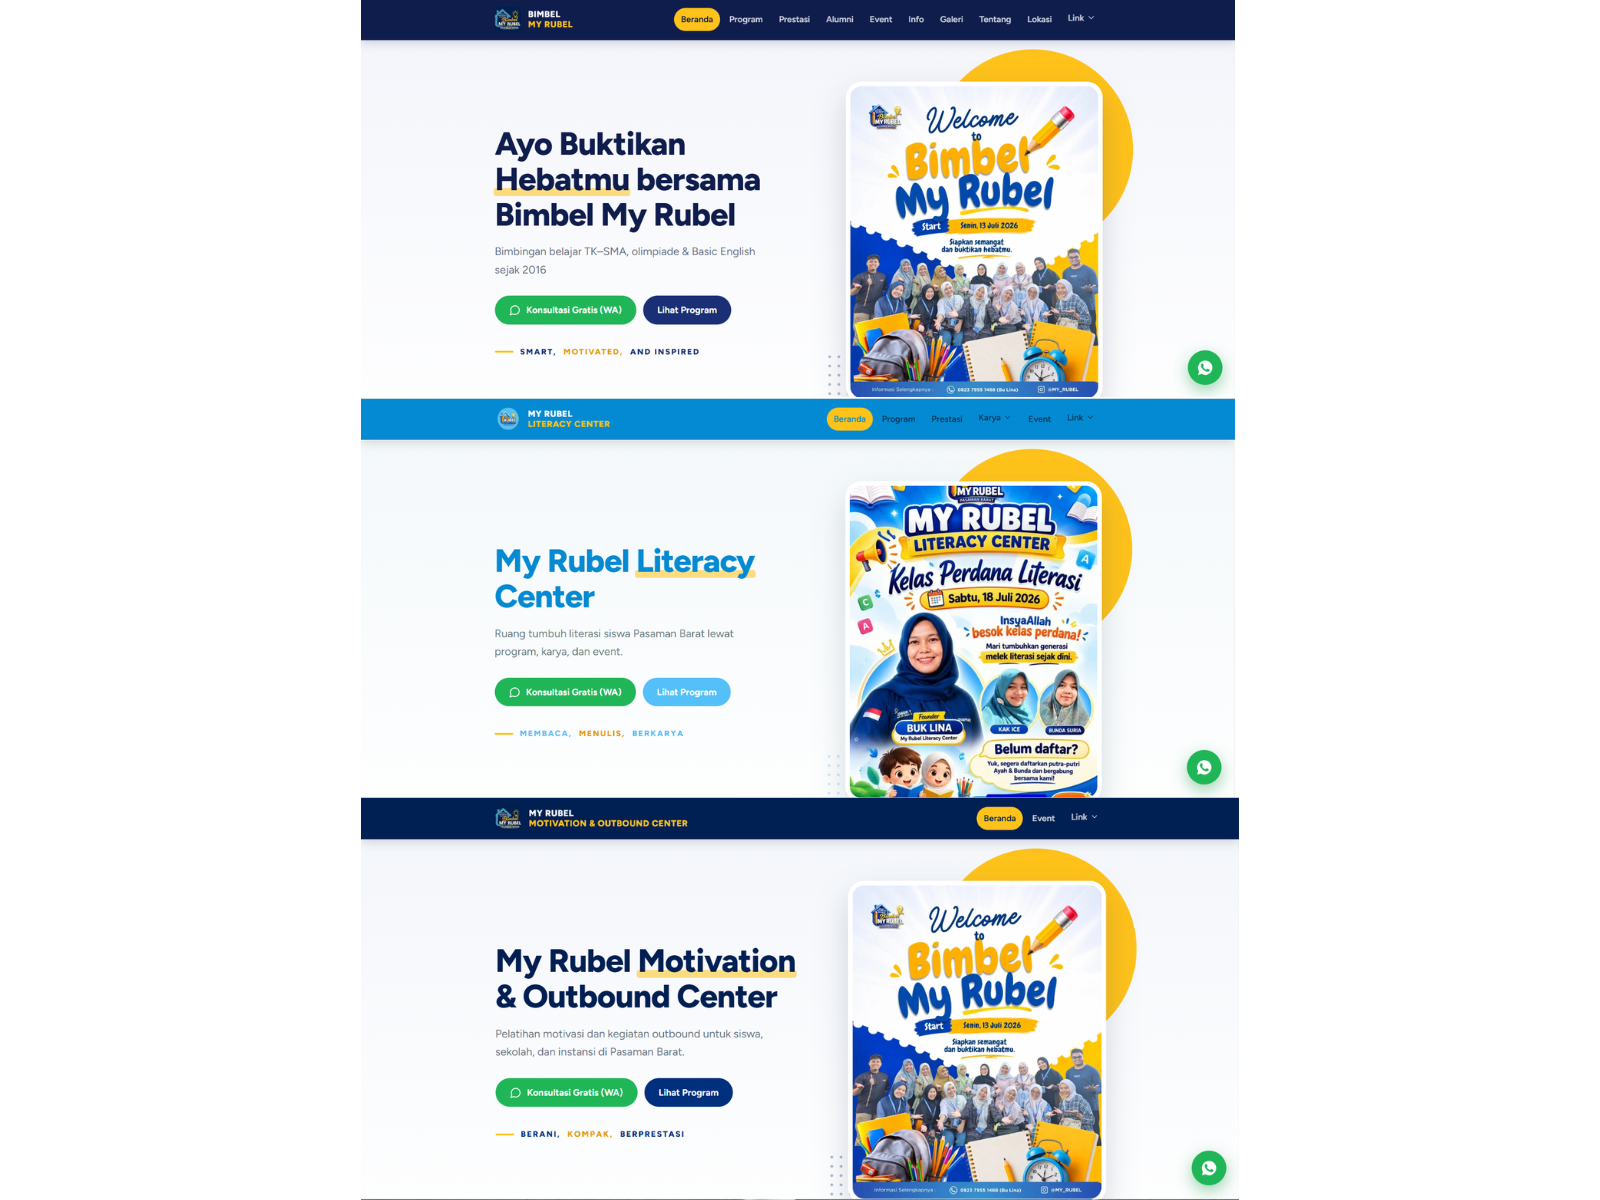
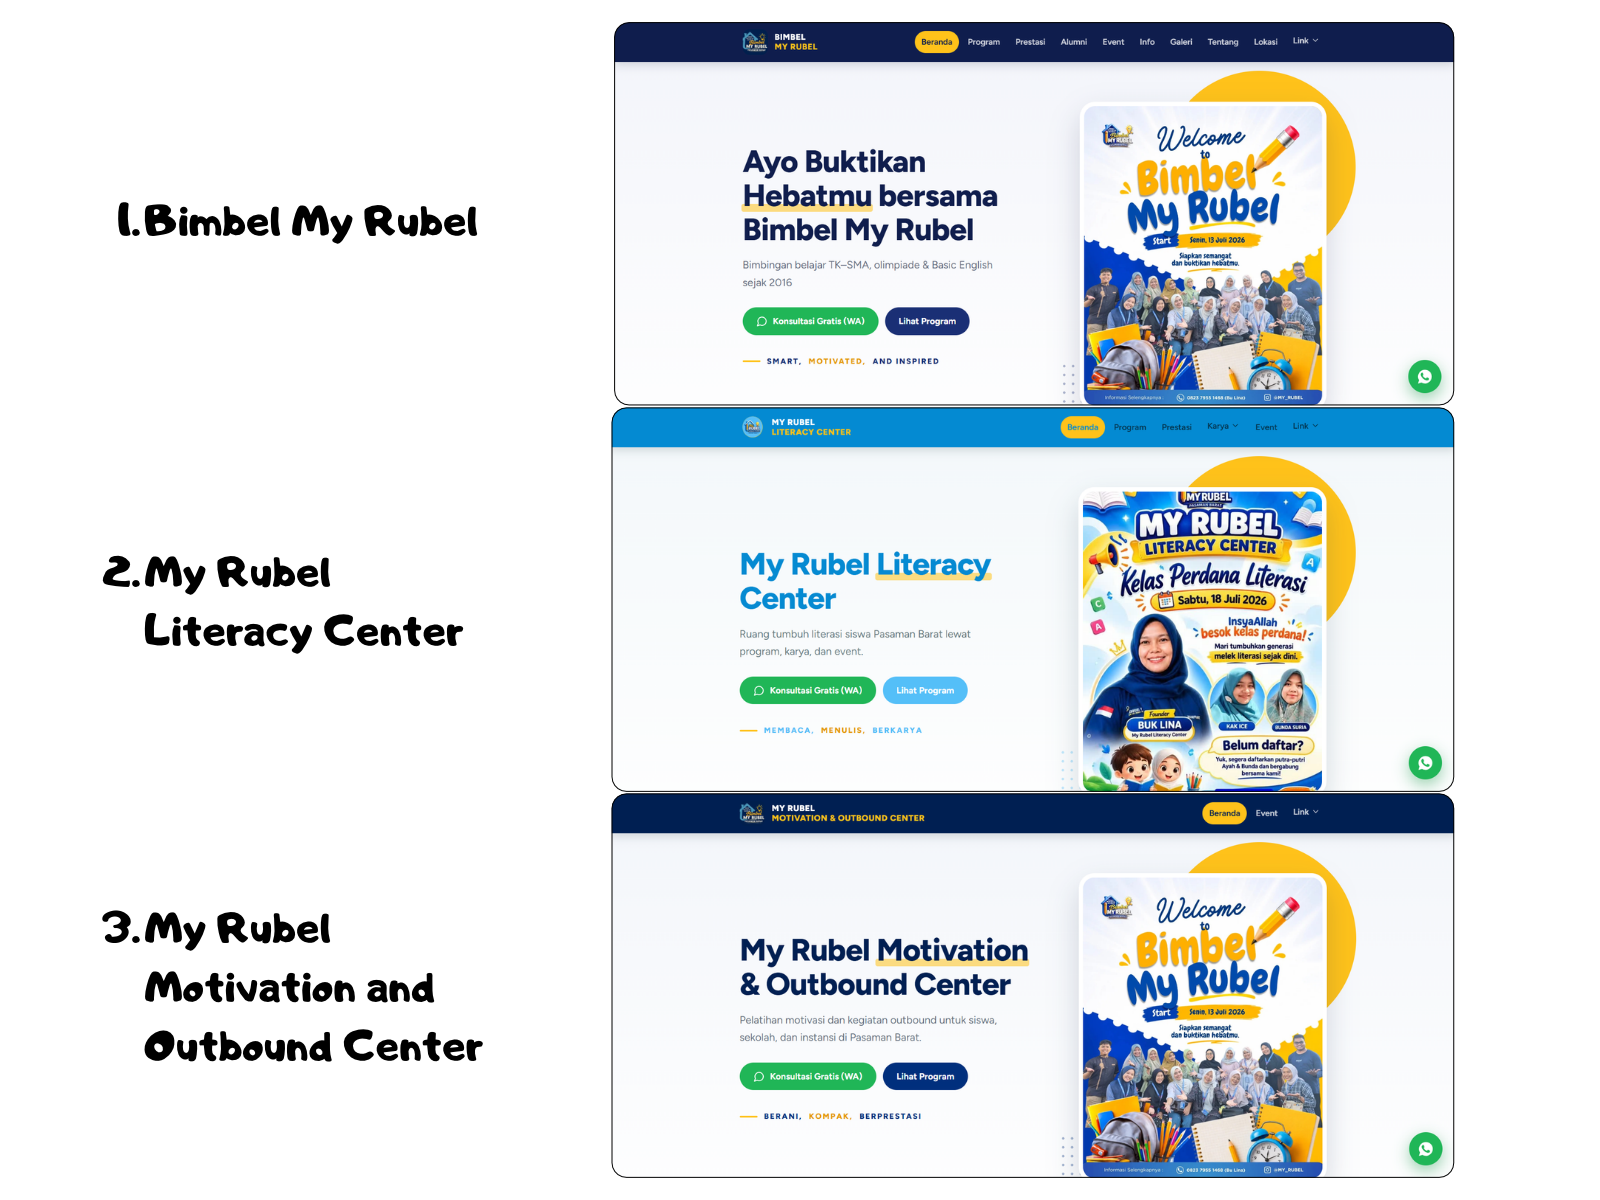
Perbarui gambar proyek dan galeri

Changed region(s): [[0.0625, 0.0, 0.9062, 1.0], [0.875, 0.925, 0.9062, 0.9867]]

diff --git a/src/components/Gallery.tsx b/src/components/Gallery.tsx
@@ -1,10 +1,18 @@
-import { useEffect, useState } from "react";
+import { useEffect, useRef, useState } from "react";
 import { gallery } from "../data";
 import AccordionGallery from "./AccordionGallery";
 import Reveal from "./Reveal";
 
 // Di bawah 520px galeri melebar atas-bawah, di atasnya melebar ke samping
 const MOBILE_QUERY = "(max-width: 519px)";
+
+// Panel yang sedang terbuka selalu berasio 9:16
+const RATIO = 9 / 16;
+const GAP = 10;
+const DESKTOP_HEIGHT = 640;
+const DESKTOP_COLLAPSED = 80;
+// Sama dengan tinggi minimum panel di AccordionGallery (max-[520px]:min-h-[84px])
+const MOBILE_COLLAPSED = 84;
 
 function useIsMobile() {
   const [isMobile, setIsMobile] = useState(() => window.matchMedia(MOBILE_QUERY).matches);
@@ -17,25 +25,65 @@ function useIsMobile() {
   return isMobile;
 }
 
+function useWidth() {
+  const ref = useRef<HTMLDivElement>(null);
+  const [width, setWidth] = useState(0);
+  useEffect(() => {
+    const el = ref.current;
+    if (!el) return;
+    setWidth(el.clientWidth);
+    const ro = new ResizeObserver(() => setWidth(el.clientWidth));
+    ro.observe(el);
+    return () => ro.disconnect();
+  }, []);
+  return [ref, width] as const;
+}
+
 export default function Gallery() {
   const isMobile = useIsMobile();
-  if (gallery.length === 0) return null;
+  const [ref, width] = useWidth();
+  const n = gallery.length;
+  if (n === 0) return null;
+
+  const gaps = GAP * (n - 1);
+  let layout: { height: number; expandRatio: number; maxWidth?: number };
+
+  if (isMobile) {
+    // Atas-bawah: tinggi panel aktif = lebar layar × 16/9
+    const activeH = width / RATIO;
+    const total = activeH + (n - 1) * MOBILE_COLLAPSED + gaps;
+    // AccordionGallery mode vertikal memakai tinggi = height × 1,6
+    layout = { height: total / 1.6, expandRatio: activeH / (total - gaps) };
+  } else {
+    // Ke samping: lebar panel aktif = tinggi × 9/16
+    const activeW = DESKTOP_HEIGHT * RATIO;
+    const maxWidth = activeW + (n - 1) * DESKTOP_COLLAPSED + gaps;
+    const usable = Math.min(width, maxWidth) - gaps;
+    layout = { height: DESKTOP_HEIGHT, expandRatio: activeW / usable, maxWidth };
+  }
 
   return (
     <section id="galeri" className="mx-auto max-w-[1280px] px-4 pb-16 md:px-8 md:pb-24">
       <h2 className="h2 m-0 mb-10 md:mb-14">Galeri</h2>
       <Reveal>
-        <AccordionGallery
-          key={isMobile ? "vertical" : "horizontal"}
-          items={gallery}
-          orientation={isMobile ? "vertical" : "horizontal"}
-          height={isMobile ? 360 : 460}
-          defaultIndex={Math.floor(gallery.length / 2)}
-          accentColor="hsl(46, 100%, 58%)"
-          overlayColor="hsl(228, 40%, 14%)"
-          textColor="hsl(48, 100%, 99%)"
-          radius={24}
-        />
+        <div ref={ref} className="mx-auto w-full" style={{ maxWidth: layout.maxWidth }}>
+          {width > 0 && (
+            <AccordionGallery
+              key={isMobile ? "vertical" : "horizontal"}
+              items={gallery}
+              orientation={isMobile ? "vertical" : "horizontal"}
+              height={layout.height}
+              expandRatio={layout.expandRatio}
+              mediaScale={1}
+              gap={GAP}
+              defaultIndex={Math.floor(n / 2)}
+              accentColor="hsl(46, 100%, 58%)"
+              overlayColor="hsl(228, 40%, 14%)"
+              textColor="hsl(48, 100%, 99%)"
+              radius={24}
+            />
+          )}
+        </div>
       </Reveal>
     </section>
   );

diff --git a/src/data.ts b/src/data.ts
@@ -112,7 +112,7 @@ export const projects: Project[] = [
     title: "Instagaram",
     labels: ["Proyek Pribadi"],
     kind: "mobile",
-    image: "",
+    image: "/instagaram.png",
     summary:
       "Aplikasi media sosial Android bergaya Instagram dengan pesan langsung real-time dan notifikasi push.",
     points: [
@@ -131,7 +131,7 @@ export const projects: Project[] = [
     title: "SPK Pemilihan Sepeda Motor Listrik",
     labels: ["Tugas Akhir", "Terpublikasi di Jurnal"],
     kind: "mobile",
-    image: "",
+    image: "/spk.png",
     summary:
       "Aplikasi Android yang merekomendasikan sepeda motor listrik sesuai preferensi pengguna menggunakan metode Fuzzy AHP-TOPSIS.",
     points: [
@@ -173,11 +173,11 @@ export const education = {
 // Galeri di bawah Pendidikan. Taruh foto di public/galeri lalu ganti image dan label.
 // Gambar Foto 1–5 sekarang hanya contoh sementara.
 export const gallery = [
-  { image: "/galeri/1.svg", label: "Foto 1" },
-  { image: "/galeri/2.svg", label: "Foto 2" },
-  { image: "/galeri/3.svg", label: "Foto 3" },
-  { image: "/galeri/4.svg", label: "Foto 4" },
-  { image: "/galeri/5.svg", label: "Foto 5" },
+  { image: "/galeri/1.jpg", label: "Foto 1" },
+  { image: "/galeri/2.jpg", label: "Foto 2" },
+  { image: "/galeri/3.jpg", label: "Foto 3" },
+  { image: "/galeri/4.jpg", label: "Foto 4" },
+  { image: "/galeri/5.jpg", label: "Foto 5" },
 ];
 
 export const contact = {

diff --git a/src/components/AccordionGallery.tsx b/src/components/AccordionGallery.tsx
@@ -28,6 +28,8 @@ export interface AccordionGalleryProps {
   trigger?: 'hover' | 'click';
   showLabels?: boolean;
   grayscale?: boolean;
+  // Ukuran gambar relatif terhadap panel aktif. 1 = pas, tidak ada bagian terpotong.
+  mediaScale?: number;
   className?: string;
 }
 
@@ -58,6 +60,7 @@ const AccordionGallery = ({
   trigger = 'hover',
   showLabels = true,
   grayscale = true,
+  mediaScale = 1.22,
   className = ''
 }: AccordionGalleryProps) => {
   const rootRef = useRef<HTMLDivElement>(null);
@@ -160,7 +163,7 @@ const AccordionGallery = ({
       const rect = el.getBoundingClientRect();
       const total = vertical ? rect.height : rect.width;
       const usable = Math.max(total - gap * (count - 1), 120);
-      const size = Math.max(140, usable * Math.min(Math.max(expandRatio, 0.2), 0.9) * 1.22);
+      const size = Math.max(140, usable * Math.min(Math.max(expandRatio, 0.2), 0.9) * mediaScale);
       mediaSizeRef.current = size;
       el.style.setProperty('--ag-media-size', `${size}px`);
       applyLayout(!firstRunRef.current);
@@ -170,7 +173,7 @@ const AccordionGallery = ({
     const ro = new ResizeObserver(measure);
     ro.observe(el);
     return () => ro.disconnect();
-  }, [applyLayout, gap, count, expandRatio, vertical]);
+  }, [applyLayout, gap, count, expandRatio, vertical, mediaScale]);
 
   useEffect(() => {
     applyLayout(!firstRunRef.current);

diff --git a/src/components/Projects.tsx b/src/components/Projects.tsx
@@ -8,16 +8,22 @@ import Wave from "./Wave";
 
 function Thumbnail({ project, featured }: { project: Project; featured?: boolean }) {
   const Icon = project.kind === "web" ? Globe : Smartphone;
+  // Kartu besar di mobile mengikuti rasio asli gambar supaya tidak terpotong
+  const featuredBox = project.image ? "" : "aspect-[16/10] md:aspect-auto";
   return (
     <div
       className={clsx(
         "flex items-center justify-center overflow-hidden border-ink",
-        featured ? "aspect-[16/10] border-b-2 md:aspect-auto md:h-full md:border-r-2 md:border-b-0" : "aspect-[16/9] border-b-2",
+        featured ? `${featuredBox} border-b-2 md:h-full md:border-r-2 md:border-b-0` : "aspect-[16/9] border-b-2",
         project.kind === "web" ? "bg-tile-yellow" : "bg-tile-blue",
       )}
     >
       {project.image ? (
-        <img src={project.image} alt={`Tampilan ${project.title}`} className="h-full w-full object-cover" />
+        <img
+          src={project.image}
+          alt={`Tampilan ${project.title}`}
+          className={featured ? "block h-auto w-full md:h-full md:object-cover" : "h-full w-full object-cover"}
+        />
       ) : (
         <Icon size={featured ? 72 : 56} strokeWidth={1.5} aria-hidden="true" />
       )}
